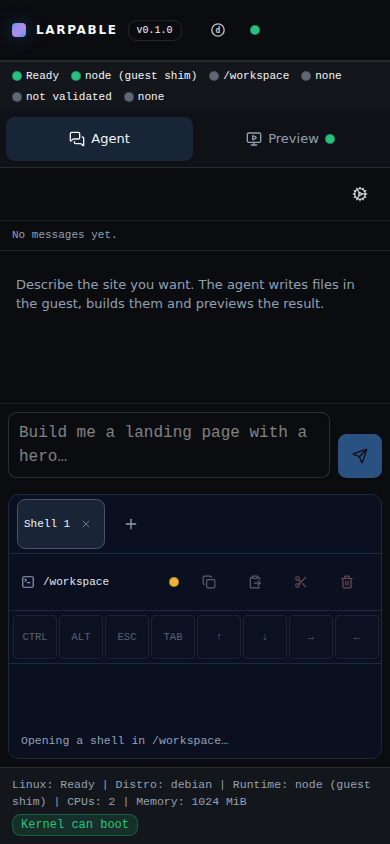
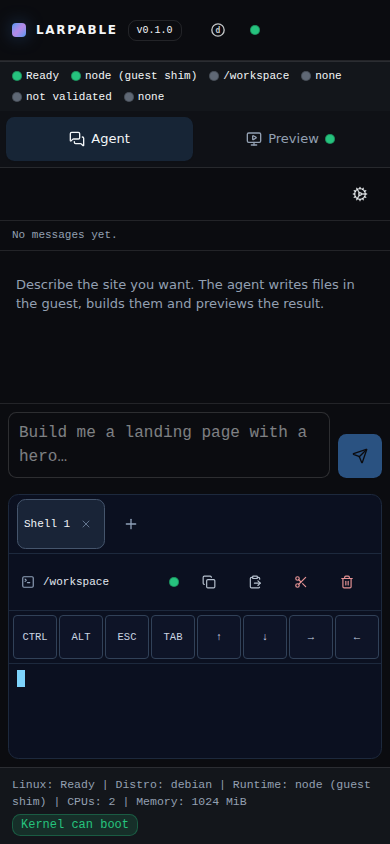
docs: re-measure the auto-boot run
`bun run acceptance:autoboot` re-run during verification: 11/11 the same,
14009 ms navigation -> Ready and "booted in 8.8 s" (the previous run measured
15218 ms / 9.8 s). Transcript and both screenshots refreshed, and docs/autoboot.md
now names the earlier figures as the run-to-run spread rather than quoting a
number the committed transcript no longer contains.

diff --git a/docs/autoboot.md b/docs/autoboot.md
@@ -30,7 +30,10 @@ Three rules, each of which is a bug if it flips:
 ## The measurements
 
 Chromium, 390 × 844, `http://127.0.0.1:5173` started by the script itself and bound to loopback.
-**No click of any kind** is issued after `page.goto`.
+**No click of any kind** is issued after `page.goto`. The transcript below is the run committed as
+`docs/evidence/autoboot-acceptance.txt`; the run before it measured the same eleven checks with a
+slower boot (15 218 ms to `Ready`, `booted in 9.8 s`), which is the run-to-run spread of a 72 MB
+image streaming through a cold HTTP cache — not a behaviour change.
 
 ```
 PASS the spinner appears without a click — aria-label="Starting Linux"
@@ -38,17 +41,17 @@ PASS the spinner is named for a screen reader — role="status", aria-label="Sta
 PASS the spinner actually animates — animation-name=spin
 PASS the footer says the machine is starting — Linux: Not started
 PASS the header does not overflow at 390 px while starting — scrollWidth - clientWidth = 0 px
-PASS the machine reaches Ready with no click — 15218 ms from navigation
+PASS the machine reaches Ready with no click — 14009 ms from navigation
 PASS the spinner is gone once the machine is ready — present=false
-PASS the app's own boot duration is published — booted in 9.8 s
+PASS the app's own boot duration is published — booted in 8.8 s
 PASS one image was read, in ranges with no offset requested twice (no second kernel) — 9 request(s), duplicates: none
 PASS an unsupported browser shows no spinner and no boot — spinner=false, footer="Linux: Not started"
 PASS an unsupported browser still explains itself — This browser cannot boot Linux / lacks WebAssembly JSPI …
 [autoboot] 11/11 checks passed against http://127.0.0.1:5173
 ```
 
-- **15.2 s** from navigation to `Ready`; the app's own figure (click-to-ready equivalent, from
-  `boot()` to the adapter's `ready`) is **9.8 s**. The difference is page load, the 72 MB image
+- **14.0 s** from navigation to `Ready`; the app's own figure (boot-to-ready, from `boot()` to the
+  adapter's `ready`) is **8.8 s**. The difference is page load, the 72 MB image
   being streamed in ranges, and the runtime probe — not a second boot.
 - **9 requests for `/distros/debian.erofs`** in that run: one plain request plus eight `Range`
   reads. The first version of this check failed on the raw count (`9 !== 1`), which is what led
